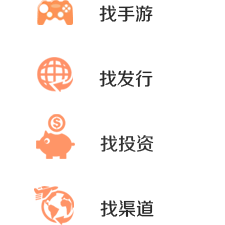
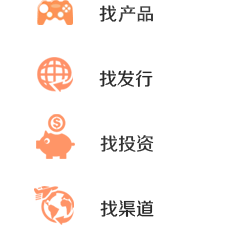
处理禅道BUG

Changed region(s): [[0.5289, 0.0, 0.6844, 0.1244]]

diff --git a/apps/public/Tpl/default/Index/index.html b/apps/public/Tpl/default/Index/index.html
@@ -7,8 +7,8 @@
 		<ul class="i-sub-list oh mb10">
 			<li class="i-s1"><a href="{:U('company/Index/index',array('type'=>5))}"></a></li>
 			<li class="i-s2"><a href="{:U('company/Index/index',array('type'=>9))}"></a></li>
-			<li class="i-s3"><a href="{:U('company/Index/index',array('type'=>12))}"></a></li>
 			<li class="i-s4"><a href="{:U('company/Index/index',array('type'=>7))}"></a></li>
+			<li class="i-s3"><a href="{:U('company/Index/index',array('type'=>12))}"></a></li>
 		</ul>
 		<!-- 二级导航 s-->
 		

diff --git a/addons/plugin/Login/html/login.html b/addons/plugin/Login/html/login.html
@@ -51,7 +51,7 @@
         </form>		
 	</div>
 	
-	<div class="login-main fr" id="login_div">
+	<div class="login-main fr" id="login_div" style="display:none;">
 		<div class="oh mb10">
 			<span class="fl">已有帐号登录</span>
 			<span class="fr"><h4>欢迎你，{$user.uname}，您的{$typeName}帐号授权成功！</h4><p>接下来完成简单的设置，即可用{$typeName}帐号直接登录。</p></span>
